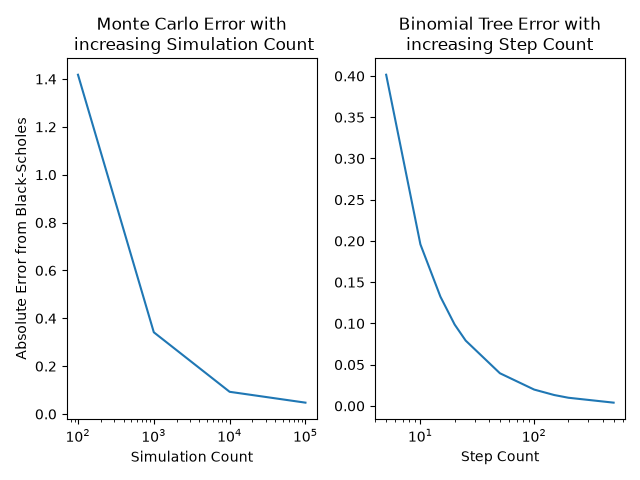
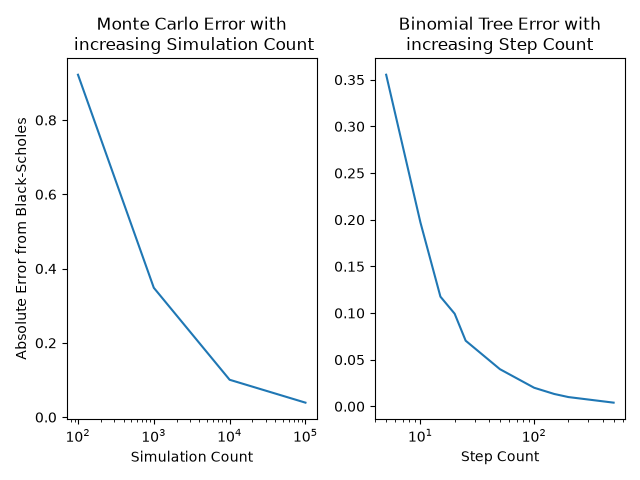
Corrected RiskFreeRate value

diff --git a/Convergence.py b/Convergence.py
@@ -4,7 +4,7 @@ import MonteCarlo as mc
 
 
 timeToExpiry =1
-riskFreeRate = 0.005
+riskFreeRate = 0.05
 volatility = 0.2
 spot =100
 strike = 100
